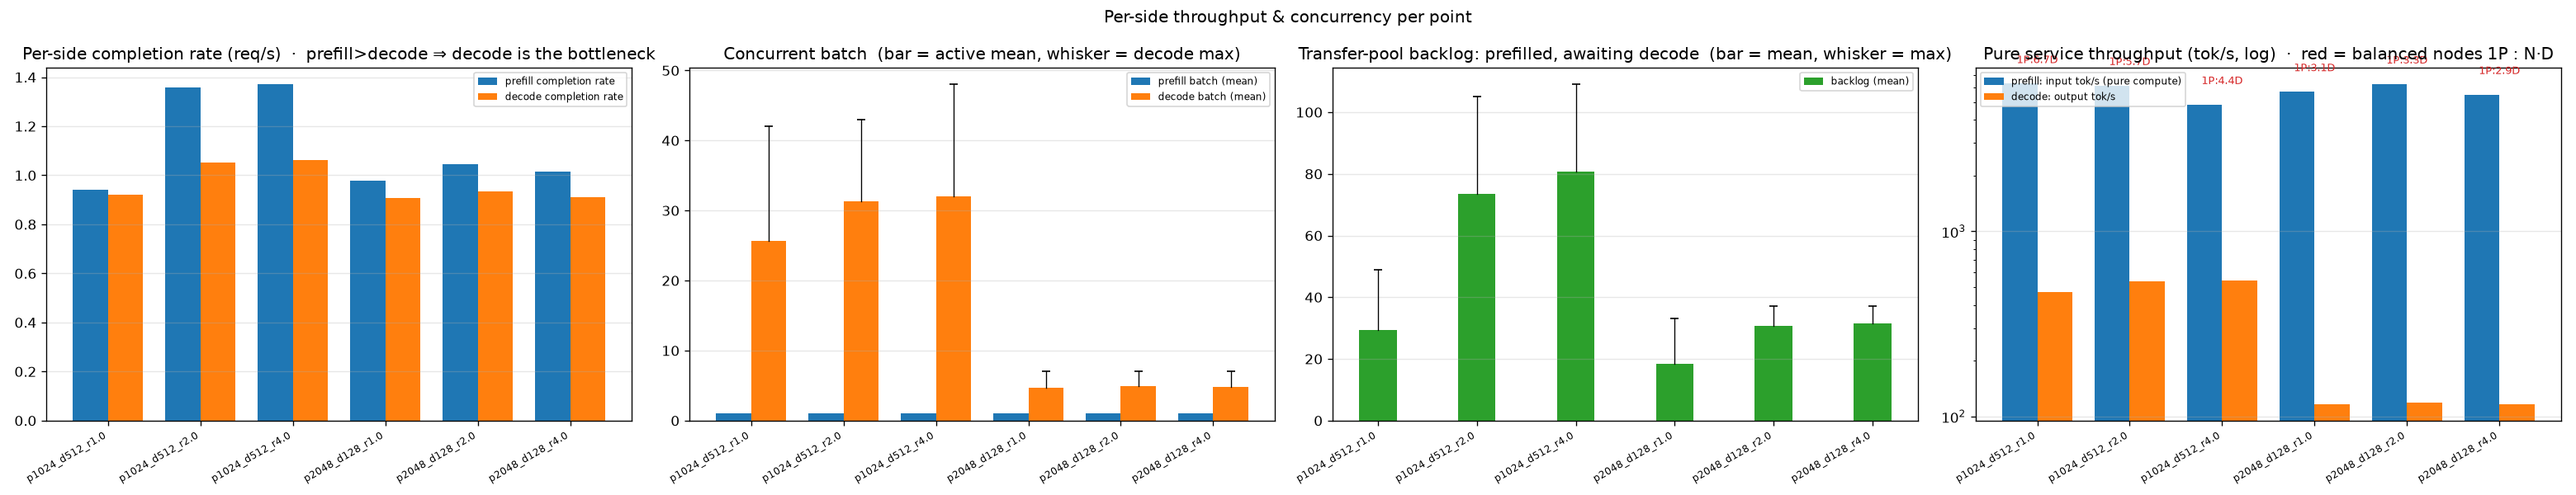
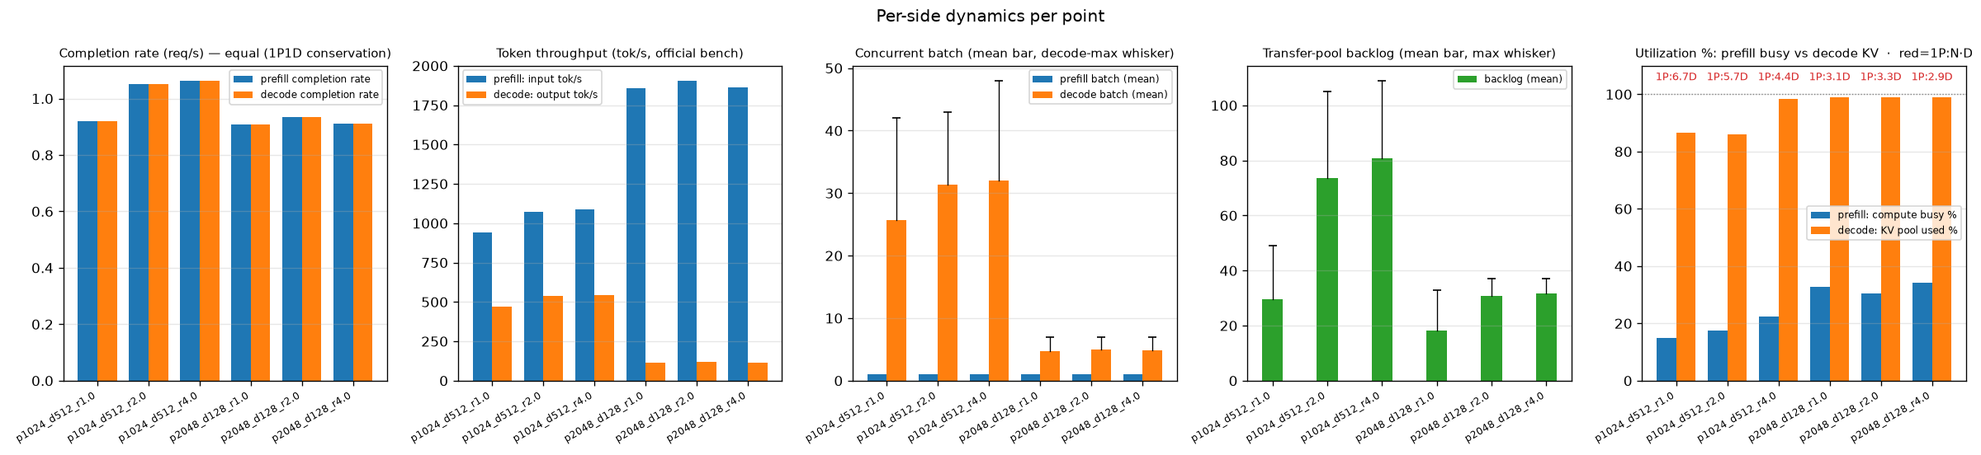
analyze: compare#2에 공식 벤치 per-side 토큰 처리량 패널 추가
RPS(완료율) 패널 다음에 token throughput 패널을 끼워 5패널로 확장:
prefill 입력 tok/s = 공식 request_throughput × ISL,
decode 출력 tok/s = 공식 output_throughput.
토큰비가 ISL:OSL과 일치(p1024_d512 2:1, p2048_d128 16:1)함을 확인.

diff --git a/disagg-exp/analyze.py b/disagg-exp/analyze.py
@@ -719,12 +719,13 @@ def plot_latency_decomp(all_stats: dict, out_dir: Path) -> None:
 
 
 def plot_perside_compare(all_stats: dict, out_dir: Path) -> None:
-    """[compare #2] 포인트별 per-side 동역학, 4패널:
-      ① 완료율(req/s, 원래 정의=orchestrator 카운터/시간) — 1P1D라 양측 동일(conservation)
-      ② 동시배치  ③ transfer-pool backlog
-      ④ per-side 이용률(%): prefill 컴퓨트 busy%(=100×rps×prefill_compute) vs decode KV풀 점유 max%.
-         prefill 놀고(낮음) decode~100%면 decode 병목 → D 늘려라. 빨강 = 균형 1P:N·D.
-    ※완료율이 같은 건 버그 아님 — 모든 요청이 prefill→decode 거쳐 같은 수 완료. 비대칭은 ④ 이용률에서 보임."""
+    """[compare #2] 포인트별 per-side 동역학, 5패널:
+      ① 완료율(req/s) — 1P1D라 양측 동일(conservation)
+      ② 토큰 처리량(tok/s, 공식 벤치): prefill 입력=request_throughput×ISL, decode 출력=output_throughput
+      ③ 동시배치  ④ transfer-pool backlog
+      ⑤ per-side 이용률(%): prefill 컴퓨트 busy%(=100×rps×prefill_compute) vs decode KV풀 점유 max%.
+         prefill 놀고 decode~100%면 decode 병목 → D 늘려라. 빨강 = 균형 1P:N·D.
+    ※완료율 같은 건 버그 아님(conservation). 토큰비는 ISL:OSL(2:1), 비대칭은 ⑤ 이용률에서 보임."""
     if not HAS_MPLOT:
         return
     pts = [(c, p) for c in sorted(all_stats) for p in sorted(all_stats[c])]
@@ -740,18 +741,25 @@ def plot_perside_compare(all_stats: dict, out_dir: Path) -> None:
                 ax.plot([xi, xi], [a, b], color="k", linewidth=0.8)
                 ax.plot(xi, b, marker="_", color="k")
 
-    fig, axes = plt.subplots(1, 4, figsize=(16, 4.6))
+    fig, axes = plt.subplots(1, 5, figsize=(20, 4.6))
     fig.suptitle("Per-side dynamics per point")
     w = 0.38
-    # A: per-side completion rate (original def: orchestrator counters / duration). 1P1D라 양측 동일.
+    # A: per-side completion rate (req/s, 공식 벤치 request rate). 1P1D라 양측 동일.
     ax = axes[0]
     pf = [g(c, p, "prefill_rps") for c, p in pts]
     dc = [g(c, p, "decode_rps") for c, p in pts]
     ax.bar(x - w / 2, pf, w, label="prefill completion rate")
     ax.bar(x + w / 2, dc, w, label="decode completion rate")
     ax.set_title("Completion rate (req/s) — equal (1P1D conservation)", fontsize=9)
-    # B: concurrent batch (mean bar + max whisker)
+    # B: per-side token throughput (공식 벤치): prefill 입력tok/s = req_throughput×ISL, decode 출력tok/s = output_throughput
     ax = axes[1]
+    p_tps = [g(c, p, "prefill_input_tps_official") for c, p in pts]
+    d_tps = [g(c, p, "decode_output_tps_official") for c, p in pts]
+    ax.bar(x - w / 2, p_tps, w, label="prefill: input tok/s")
+    ax.bar(x + w / 2, d_tps, w, label="decode: output tok/s")
+    ax.set_title("Token throughput (tok/s, official bench)", fontsize=9)
+    # C: concurrent batch (mean bar + max whisker)
+    ax = axes[2]
     pfb = [g(c, p, "pf_bsz") for c, p in pts]
     dcb = [g(c, p, "dc_bsz") for c, p in pts]
     dcbmax = [g(c, p, "dc_bsz_max") for c, p in pts]
@@ -759,15 +767,15 @@ def plot_perside_compare(all_stats: dict, out_dir: Path) -> None:
     ax.bar(x + w / 2, dcb, w, label="decode batch (mean)")
     whisker(ax, x + w / 2, dcb, dcbmax)
     ax.set_title("Concurrent batch (mean bar, decode-max whisker)", fontsize=9)
-    # C: backlog (mean bar + max whisker)
-    ax = axes[2]
+    # D: backlog (mean bar + max whisker)
+    ax = axes[3]
     bl = [g(c, p, "backlog") for c, p in pts]
     blmax = [g(c, p, "backlog_max") for c, p in pts]
     ax.bar(x, bl, w, label="backlog (mean)", color="tab:green")
     whisker(ax, x, bl, blmax)
     ax.set_title("Transfer-pool backlog (mean bar, max whisker)", fontsize=9)
-    # D: per-side UTILIZATION (각 측이 자기 용량의 몇 % 쓰나) → 병목·노드비율. red = balanced 1P : N·D
-    ax = axes[3]
+    # E: per-side UTILIZATION (각 측이 자기 용량의 몇 % 쓰나) → 병목·노드비율. red = balanced 1P : N·D
+    ax = axes[4]
     p_u = [g(c, p, "prefill_compute_util_pct") for c, p in pts]
     d_u = [g(c, p, "decode_kv_util_pct") for c, p in pts]
     ax.bar(x - w / 2, p_u, w, label="prefill: compute busy %")
@@ -802,6 +810,17 @@ def _derive_capacity(s: dict, point_id: str) -> None:
     rps = s.get("decode_rps")                               # 달성 완료율(원래 정의, 양측 동일)
     if not isinstance(rps, (int, float)):
         rps = s.get("decode_done_rps")
+    # 공식 벤치 기반 per-side tps: prefill 입력tok/s = 공식 request_throughput × ISL, decode 출력tok/s = 공식 output_throughput
+    isl = s.get("mean_input_len")
+    if not isinstance(isl, (int, float)):
+        try:
+            isl, _, _ = parse_point_id(point_id)
+        except Exception:
+            isl = None
+    if isinstance(s.get("req_s"), (int, float)) and isinstance(isl, (int, float)):
+        s["prefill_input_tps_official"] = s["req_s"] * isl
+    if isinstance(s.get("out_tok_s"), (int, float)):
+        s["decode_output_tps_official"] = s["out_tok_s"]
     if isinstance(pc, (int, float)) and pc > 0:
         s["prefill_capacity_reqs_per_sec"] = 1.0 / pc
         if isinstance(rps, (int, float)):
